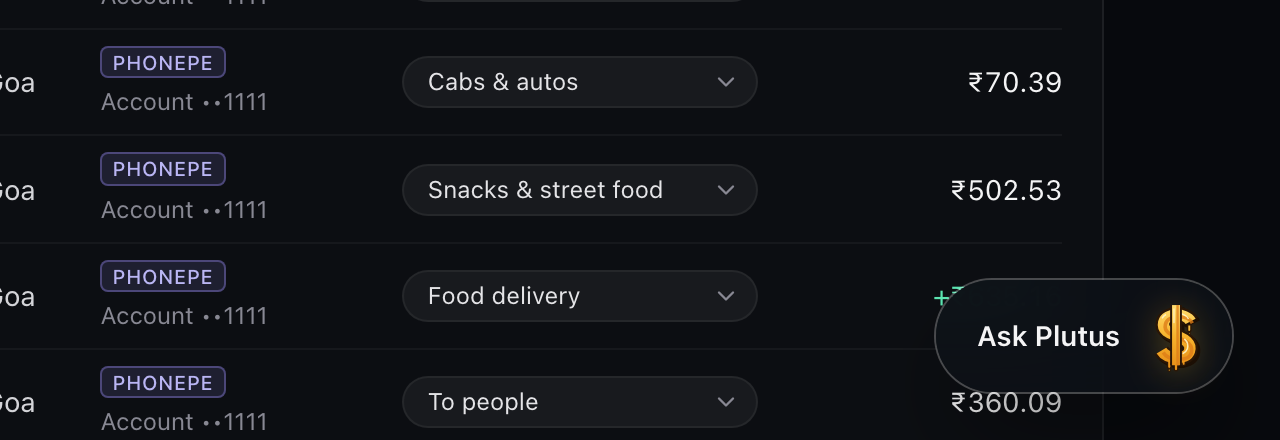
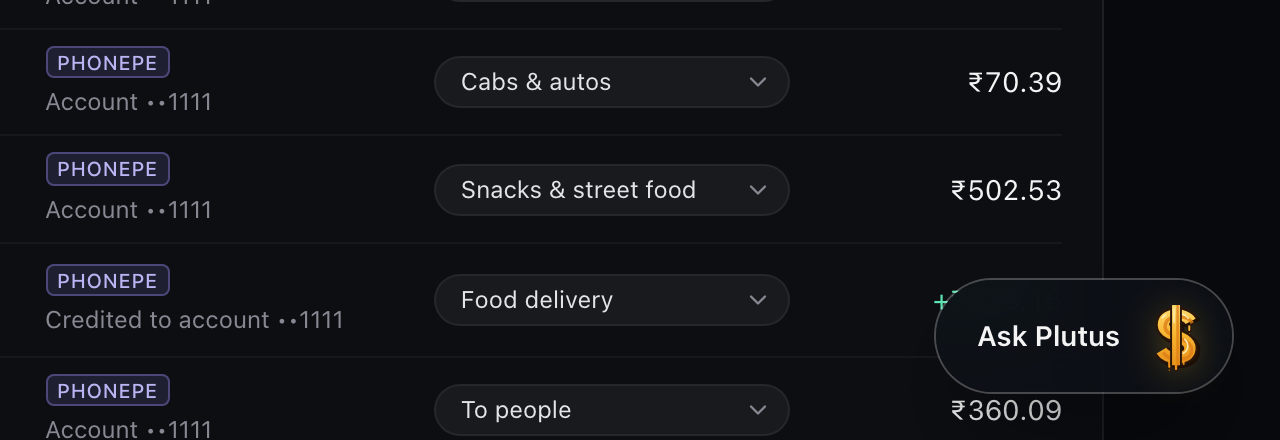
Money in reads clearly: who it's from, and where it was credited
A payment you received, a refund, a cashback or a transfer in now reads differently from money you paid out. Payee
shows its tag on top and "from <name>" under it (no "from" for a cashback, which only names itself). Paid with keeps
its chips on top and says where the money went under them: "Credited to account ••1111" or "Credited to <card> ••1111".
There's no new column, and nothing is written when the file doesn't say. A card bill's statement side keeps "Bill paid"
and is never said to be from anyone. Payments out read as before; the phone list reads the same as the table.

Tests: web/tests/moneyIn.test.ts (6) and a browser check, scripts/checks/rows.mjs (7), on the demo. README
transactions picture retaken from the demo.

diff --git a/web/src/components/dash/TransactionsTable.tsx b/web/src/components/dash/TransactionsTable.tsx
@@ -4,7 +4,7 @@ import { Fragment, createContext, useContext, useEffect, useMemo, useRef, useSta
 import { api } from '../../api'
 import { cardName } from '../../lib/cards'
 import { categoriesMatching, categoriesNamed } from '../../lib/categoryWords'
-import { NO_NAME, billNote, billSides, cardSide, countsAs, flatten, howPaid, isCardBill, isIgnored, oneRowPerPayment, paidFromLabel, rowTag, topOf, type Bucket } from '../../lib/ledger'
+import { NO_NAME, accountLine, billNote, billSides, cardSide, countsAs, flatten, howPaid, isCardBill, isIgnored, moneyFrom, moneyIn, oneRowPerPayment, paidFromLabel, rowTag, topOf, type Bucket } from '../../lib/ledger'
 import { plural } from '../../lib/format'
 import { inrExact } from '../../lib/money'
 import { dayLabel, dayMonthLabel, timeLabel } from '../../lib/periods'
@@ -346,23 +346,45 @@ export function TransactionsTable({
   const oneYear = useMemo(() => new Set(rows.map((t) => t.at.slice(0, 4))).size <= 1, [rows])
   // card statements give the day only
   const time = (t: Transaction) => ('cardRow' in t.refs && t.at.slice(11, 16) === '00:00' ? null : timeLabel(t.at))
-  const payee = (t: Transaction) => (
-    <div className="flex min-w-0 items-center gap-1.5">
-      {t.payee === NO_NAME ? (
-        <span className="truncate text-muted italic" title="The file this came from doesn't say who was paid">
-          No payee name
-        </span>
-      ) : (
-        <span className="truncate text-zinc-100" title={t.payee}>
-          {t.payee}
-        </span>
-      )}
-      {tag(t)}
+  const payeeName = (t: Transaction) =>
+    t.payee === NO_NAME ? (
+      <span className="truncate text-muted italic" title={`The file this came from doesn't say who ${t.direction === 'credit' ? 'sent it' : 'was paid'}`}>
+        No payee name
+      </span>
+    ) : (
+      <span className="truncate text-zinc-100" title={t.payee}>
+        {t.payee}
+      </span>
+    )
+  const marks = (t: Transaction) => (
+    <>
       {statementChip(cardSide(t, sides), names.card)}
       {t.needsReview && <AlertCircle aria-label="Needs review" className="size-3.5 shrink-0 text-[var(--color-status-warning)]" />}
       {t.categorizedBy === 'llm' && <Sparkles aria-label="Categorised by the local AI" className="size-3.5 shrink-0 text-muted" />}
-    </div>
+    </>
   )
+  // money in reads as a bank's statement says it: its tag on top, then "from" whom (a cashback, its own wording), the way
+  // "Paid with" has its chips on top and the account it was credited to under them (lib/ledger.ts `moneyIn`,
+  // `moneyFrom`); a payment out, its payee and any tag beside it, as before
+  const payee = (t: Transaction) =>
+    moneyIn(t) ? (
+      <div className="min-w-0">
+        <div className="flex items-center gap-1.5">
+          {tag(t)}
+          {marks(t)}
+        </div>
+        <div className="mt-1 flex min-w-0 items-baseline gap-1">
+          {t.payee !== NO_NAME && moneyFrom(t) && <span className="shrink-0 text-muted">from</span>}
+          {payeeName(t)}
+        </div>
+      </div>
+    ) : (
+      <div className="flex min-w-0 items-center gap-1.5">
+        {payeeName(t)}
+        {tag(t)}
+        {marks(t)}
+      </div>
+    )
   const subline = (t: Transaction) => detail(t) && <div className="truncate text-xs text-muted" title={detail(t) || undefined}>{detail(t)}</div>
   const categoryOf = (t: Transaction) => <CategorySelect tree={tree} value={t.category} onChange={(c) => setOne(t, c)} compact />
   // a card bill is neither money in nor spending: no sign, no colour
@@ -634,7 +656,7 @@ export function TransactionsTable({
                           )}
                         </td>
                       )}
-                      <td className="py-2 pr-4">{paidWith(t, paidFromLabel(t, cards, accounts))}</td>
+                      <td className="py-2 pr-4">{paidWith(t, accountLine(t, cards, accounts))}</td>
                       <td className="py-2 pr-4">
                         <div className="w-44">{categoryOf(t)}</div>
                       </td>
@@ -671,7 +693,7 @@ export function TransactionsTable({
                           </div>
                         </div>
                         {subline(t)}
-                        <div className="mt-1.5">{paidWith(t, paidFromLabel(t, cards, accounts), true)}</div>
+                        <div className="mt-1.5">{paidWith(t, accountLine(t, cards, accounts), true)}</div>
                         {/* nothing cut: on a very narrow screen the category moves under the day */}
                         <div className="mt-2 flex flex-wrap items-center justify-between gap-x-3 gap-y-1.5">
                           <span className="flex min-w-0 items-center gap-1.5 text-xs text-muted">
@@ -838,10 +860,10 @@ function OfferRow({
 /** A category's name as the dropdown shows it: a top-level category with sub-categories reads "Groceries (general)". */
 /** A row's tag (rowTag): green where money comes in, neutral otherwise. */
 /** "Paid with": how the payment was made, a chip each (a card in blue, UPI and its apps in violet; their tooltip says it
- *  in words), and under them the account or card it was paid from (the whole of a long name, and what it is, on
- *  hover). Nothing under them when the file doesn't say where it came from. `inline` (the narrow list): the account
- *  or card beside the chips, on one line. */
-function paidWith(t: Transaction, from: { title: string; detail: string }, inline = false) {
+ *  in words), and under them the account or card on your side (lib/ledger.ts `accountLine`): the one it was paid from,
+ *  or, for money in, "Credited to" the one it went to (the whole of a long name, and what it is, on hover). Nothing
+ *  under them when the file doesn't say. `inline` (the narrow list): the account or card beside the chips, on one line. */
+function paidWith(t: Transaction, side: { text: string; title: string } | null, inline = false) {
   const how = howPaid(t)
   return (
     <div className={inline ? 'flex min-w-0 items-center gap-2' : 'max-w-60'}>
@@ -857,9 +879,9 @@ function paidWith(t: Transaction, from: { title: string; detail: string }, inlin
           ))}
         </div>
       )}
-      {from.title !== '—' && (
-        <div className={`${inline ? 'min-w-0' : 'mt-1'} truncate text-xs text-muted`} title={[from.title, from.detail].filter(Boolean).join(' · ')}>
-          {from.title}
+      {side && (
+        <div className={`${inline ? 'min-w-0' : 'mt-1'} truncate text-xs text-muted`} title={side.title}>
+          {side.text}
         </div>
       )}
     </div>

diff --git a/web/tests/moneyIn.test.ts b/web/tests/moneyIn.test.ts
@@ -1,0 +1,52 @@
+// Money that comes in reads the way a bank's statement says it: its tag ("Received", "Refund"…), then who it's from,
+// and the account or card it was credited to; payments out read as before. A card bill's statement side ("PAYMENT
+// RECEIVED") is your own payment to the card, never "from" anyone. Fake payments only.
+import assert from 'node:assert/strict'
+import { test } from 'node:test'
+import { accountLine, moneyFrom, moneyIn } from '../src/lib/ledger'
+import type { OwnAccount, Transaction } from '../src/types'
+import { byNumber, card, onUpi, txn } from './fixtures'
+
+const CARD = card('fakebank-1141', '1141')
+const RENT: OwnAccount = { last4: '1111', label: 'Rent account', seenAs: 'Bank Account XXXXXX1111', addedAt: '2026-01-01T00:00:00Z' }
+const pay = (over: Partial<Transaction> = {}) => txn('2026-01-05', 500, over)
+const credit = (over: Partial<Transaction> = {}) => pay({ direction: 'credit', kind: 'income', category: 'income.received', ...over })
+const line = (t: Transaction, accounts: OwnAccount[] = []) => accountLine(t, [CARD], accounts)
+
+test('a payment out: the account or card it was paid from, as before', () => {
+  assert.deepEqual(line(pay()), { text: 'Account ••1111', title: 'Account ••1111 · Bank account' })
+  assert.equal(line(pay(byNumber(CARD.id)))?.text, 'Fake Bank ••1141')
+})
+
+test('money in: credited to the account, or to your own account by the name you gave it', () => {
+  assert.deepEqual(line(credit()), { text: 'Credited to account ••1111', title: 'Credited to Account ••1111 · Bank account' })
+  assert.equal(line(credit(), [RENT])?.text, 'Credited to Rent account ••1111')
+})
+
+test('money back to a card: credited to the card, by its name; one not known yet by its last digits', () => {
+  assert.equal(line(credit({ kind: 'refund', category: 'income.refund', ...byNumber(CARD.id) }))?.text, 'Credited to Fake Bank ••1141')
+  assert.equal(line(credit({ kind: 'refund', category: 'income.refund', ...onUpi(CARD.id) }))?.text, 'Credited to Fake Bank ••1141')
+  assert.equal(line(credit({ kind: 'refund', category: 'income.refund', paidFrom: 'XXXX99' }))?.text, 'Credited to card ••99')
+  assert.equal(line(credit({ kind: 'cashback', category: 'income.cashback', paidFrom: 'Gift card' }))?.text, 'Credited to PhonePe gift card')
+})
+
+test('the file doesn’t say where it went: no line rather than a guess', () => {
+  assert.equal(line(credit({ paidFrom: null })), null)
+  assert.equal(line(pay({ paidFrom: null })), null)
+})
+
+test('a card bill’s statement side is credited to the card: your payment to it', () => {
+  assert.equal(line(credit({ kind: 'bill_payment', category: 'transfers.card_bill', ...byNumber(CARD.id) }))?.text, 'Credited to Fake Bank ••1141')
+})
+
+test('money in has its tag on top; “from” whom where its name says who sent it, never a payment out or your own payment to a card', () => {
+  for (const t of [credit(), credit({ kind: 'refund', category: 'income.refund' }), credit({ kind: 'transfer', category: 'ignored' })]) {
+    assert.deepEqual([moneyIn(t), moneyFrom(t)], [true, true], `${t.kind}`)
+  }
+  // a cashback's name is the file's wording for it ("Cashback Received"): its tag on top, its name as it is, no "from"
+  const cashback = credit({ kind: 'cashback', category: 'income.cashback', payee: 'Cashback Received' })
+  assert.deepEqual([moneyIn(cashback), moneyFrom(cashback)], [true, false])
+  for (const t of [pay(), credit({ kind: 'bill_payment', category: 'transfers.card_bill', ...byNumber(CARD.id) })]) {
+    assert.deepEqual([moneyIn(t), moneyFrom(t)], [false, false])
+  }
+})

diff --git a/web/src/lib/ledger.ts b/web/src/lib/ledger.ts
@@ -515,6 +515,28 @@ export function paidFromLabel(t: Transaction, cards: Instrument[], accounts: Own
   return t.paidFrom ? describeSource(t.paidFrom, cards, accounts) : { title: '—', detail: '' }
 }
 
+/** The line under "Paid with"'s chips: the account or card on your side, as the files say it. A payment out, the one it
+ *  was paid from ("Account ••4321", "Fake Bank ••1141"); money in, the one it was credited to ("Credited to account
+ *  ••4321", "Credited to Fake Bank ••1141", a card's statement side of a bill included: your payment landed on the card).
+ *  Null when the file doesn't say: no line rather than a guess. */
+export function accountLine(t: Transaction, cards: Instrument[], accounts: OwnAccount[] = []): { text: string; title: string } | null {
+  const side = paidFromLabel(t, cards, accounts)
+  if (side.title === '—') return null
+  const hover = [side.title, side.detail].filter(Boolean).join(' · ')
+  if (t.direction !== 'credit') return { text: side.title, title: hover }
+  // "Account ••4321" and "Card ••99" read in a sentence in small letters; a name (your account's, a card's) as it is
+  const onto = side.title.replace(/^(Account|Card) ••/, (_, what: string) => `${what.toLowerCase()} ••`)
+  return { text: `Credited to ${onto}`, title: `Credited to ${hover}` }
+}
+
+/** Money in (Received, Refund, Cashback, Transfer in): the list shows its tag on top and its name under it, as a bank's
+ *  statement does. Never a payment out, nor a card bill's statement side (your own payment to the card). */
+export const moneyIn = (t: Transaction) => t.direction === 'credit' && !isCardBill(t)
+
+/** Money in whose name says who or where it came from (Received, Refund, Transfer in): "from" it. A cashback's name is
+ *  most often the file's own wording for it ("Cashback Received", "CASHBACK CREDIT"), so it's shown as it is. */
+export const moneyFrom = (t: Transaction) => moneyIn(t) && t.kind !== 'cashback' && t.category !== 'income.cashback'
+
 /** The UPI apps whose histories Plutus reads (a short name for the chip, the full one for words). */
 const APPS: Record<string, { chip: string; name: string }> = {
   phonepe: { chip: 'PhonePe', name: 'PhonePe' },

diff --git a/docs/RELEASE-NOTES.md b/docs/RELEASE-NOTES.md
@@ -31,6 +31,8 @@ made.
   payment's place comes from its day. A statement for those days added later shows the place too.
 - **Ask Plutus closes with a click outside it**, as well as with ✕ or Escape: it slides away, and what you clicked
   still works. A click inside it, a window it opened, or selecting its text past its edge keeps it open.
+- **Money in reads clearly**: a received payment's row says "Received", then "from" whom, and under Paid with's chips
+  "Credited to account ••1111" (or the card it went back to), as a bank's statement does; payments out are unchanged.
 - **Search Your transactions by category**: type `bar`, `food`, `shop` (or `liquor`, `kirana`, `petrol`…) and the list
   shows that category's payments, a main category with everything under it, alongside payees with the word in their
   name; a chip for each category named, with how many, narrows the list to it.
@@ -50,10 +52,10 @@ made.
 | Check | Result |
 |---|---|
 | `make test`: backend tests, with the network blocked | 411 passed |
-| `make test`: the dashboard's arithmetic, Ask Plutus, places and states, Start over, reading time, search by category, contrast | 221 passed |
+| `make test`: the dashboard's arithmetic, Ask Plutus, places and states, Start over, reading time, search by category, how money in reads, contrast | 227 passed |
 | `make test`: TypeScript | no errors |
 | `make measure`: 1000 random fake card statements | 926 proven, 74 held (they print nothing to check them by), none wrong, none unread |
-| `make check-ui`: the page in a headless browser, on the demo | 536 passed, none failed |
+| `make check-ui`: the page in a headless browser, on the demo | 543 passed, none failed |
 
 Among them: a place's spending is the same in its Places card, in Ask Plutus, and counted independently from the
 API; the Location column names the place on exactly its days; telling a stay keeps nothing until its button, a typed

diff --git a/docs/DECISIONS.md b/docs/DECISIONS.md
@@ -212,6 +212,15 @@ rows; a payment and its posting in different years show in each year's list on t
 
 ## 21. How a payment was made: chips from what the files say
 
+**Money in, as the owner laid it out**: in Payee, the row's tag on top and "from" whom under it ("Received" / "from
+Mr Fake Friend"); in Paid with, the chips on top and "Credited to account ••1111" (or "Credited to <card> ••1111") under
+them. The column stays "Paid with" (the owner declined renaming it). "From" only where the name says who sent it
+(Received, Refund, Transfer in): a cashback's name is the file's wording ("Cashback Received"), shown as it is; a card
+bill's statement side is your own payment to the card, its tag beside the name as before. The account on your side is
+the field the parsers already fill for both directions ("Debited from" and "Credited to"), so nothing stored changed;
+no line when a file doesn't say. `accountLine`, `moneyIn`, `moneyFrom` in `lib/ledger.ts` (`web/tests/moneyIn.test.ts`),
+`scripts/checks/rows.mjs`.
+
 **Decision**: each row of the transactions list says how the payment was made in the "Paid with" column (right after
 the payee, before the category: Date, Payee, Paid with, Category, Amount, as the owner set it): a chip each on top,
 the account or card on the line below. **Card** (the card's number), **PhonePe**, **GPay** or **Paytm** (UPI in that

diff --git a/docs/GUIDE.md b/docs/GUIDE.md
@@ -229,6 +229,14 @@ card used through an app: **Card · PhonePe** (a RuPay credit card on UPI), **Ca
 chips, the account or card it was paid from (hover it for a long name in full, and the chips for all of it in
 words).
 
+**Money in** reads the way a bank's statement says it. In **Payee**, its green tag on top (**Received**, **Refund**,
+**Cashback**, **Transfer in**) and under it who it's from: "from Mr Fake Friend", "from Zomato" (a cashback's name is the
+file's own wording for it, "Cashback Received", so it's shown as it is, without "from"). In **Paid with**, the chips
+on top and under them where it went: "Credited to account ••1111", or "Credited to SBI Card ••1111" when money comes
+back to a card. When the file doesn't say which account received it, there's no such line rather than a guess. A
+card bill's statement side ("PAYMENT RECEIVED") is your own payment to the card: it keeps its **Bill paid** tag
+beside the name, never "from".
+
 **Searching** the transactions list: the box finds a payee, a UPI id, an amount, a place, and a **category**, within
 what the list shows (the year at the top, All/UPI/Cards…). Type a word of a category's name, or a word people use for it,
 and you get its payments: `bar` is Bars & liquor (and any payee with "bar" in its name), `food` all of Food & Dining,

diff --git a/AGENTS.md b/AGENTS.md
@@ -200,6 +200,8 @@ Backend tests alone: `cd backend && .venv/bin/python -m pytest -q`. Web: `cd web
   ticks), never for choices that change numbers; its keys start `plutus.`, so Start over can forget them all
   (`lib/startOver.ts`). Every `/api` answer is sent `no-store` (`app/main.py`): nothing of yours in the browser's cache.
 - Rows where money comes in carry a green tag (`rowTag` in `lib/ledger.ts`); a card bill's amount is grey, unsigned.
+  Money in reads as a bank's statement does: its tag on top and "from" whom under it in Payee, "Credited to" the
+  account or card under the chips in Paid with (`moneyIn`, `moneyFrom`, `accountLine` in `lib/ledger.ts`).
   How a payment was made shows in the list's "Paid with" column (`howPaid`): a chip each, a card in blue
   (`chip-card`), UPI and its apps in violet (`chip-upi`), the account or card below; only what the files say (the
   channel, the app whose history it came from, a card), never a guess (tap, swipe or online).
